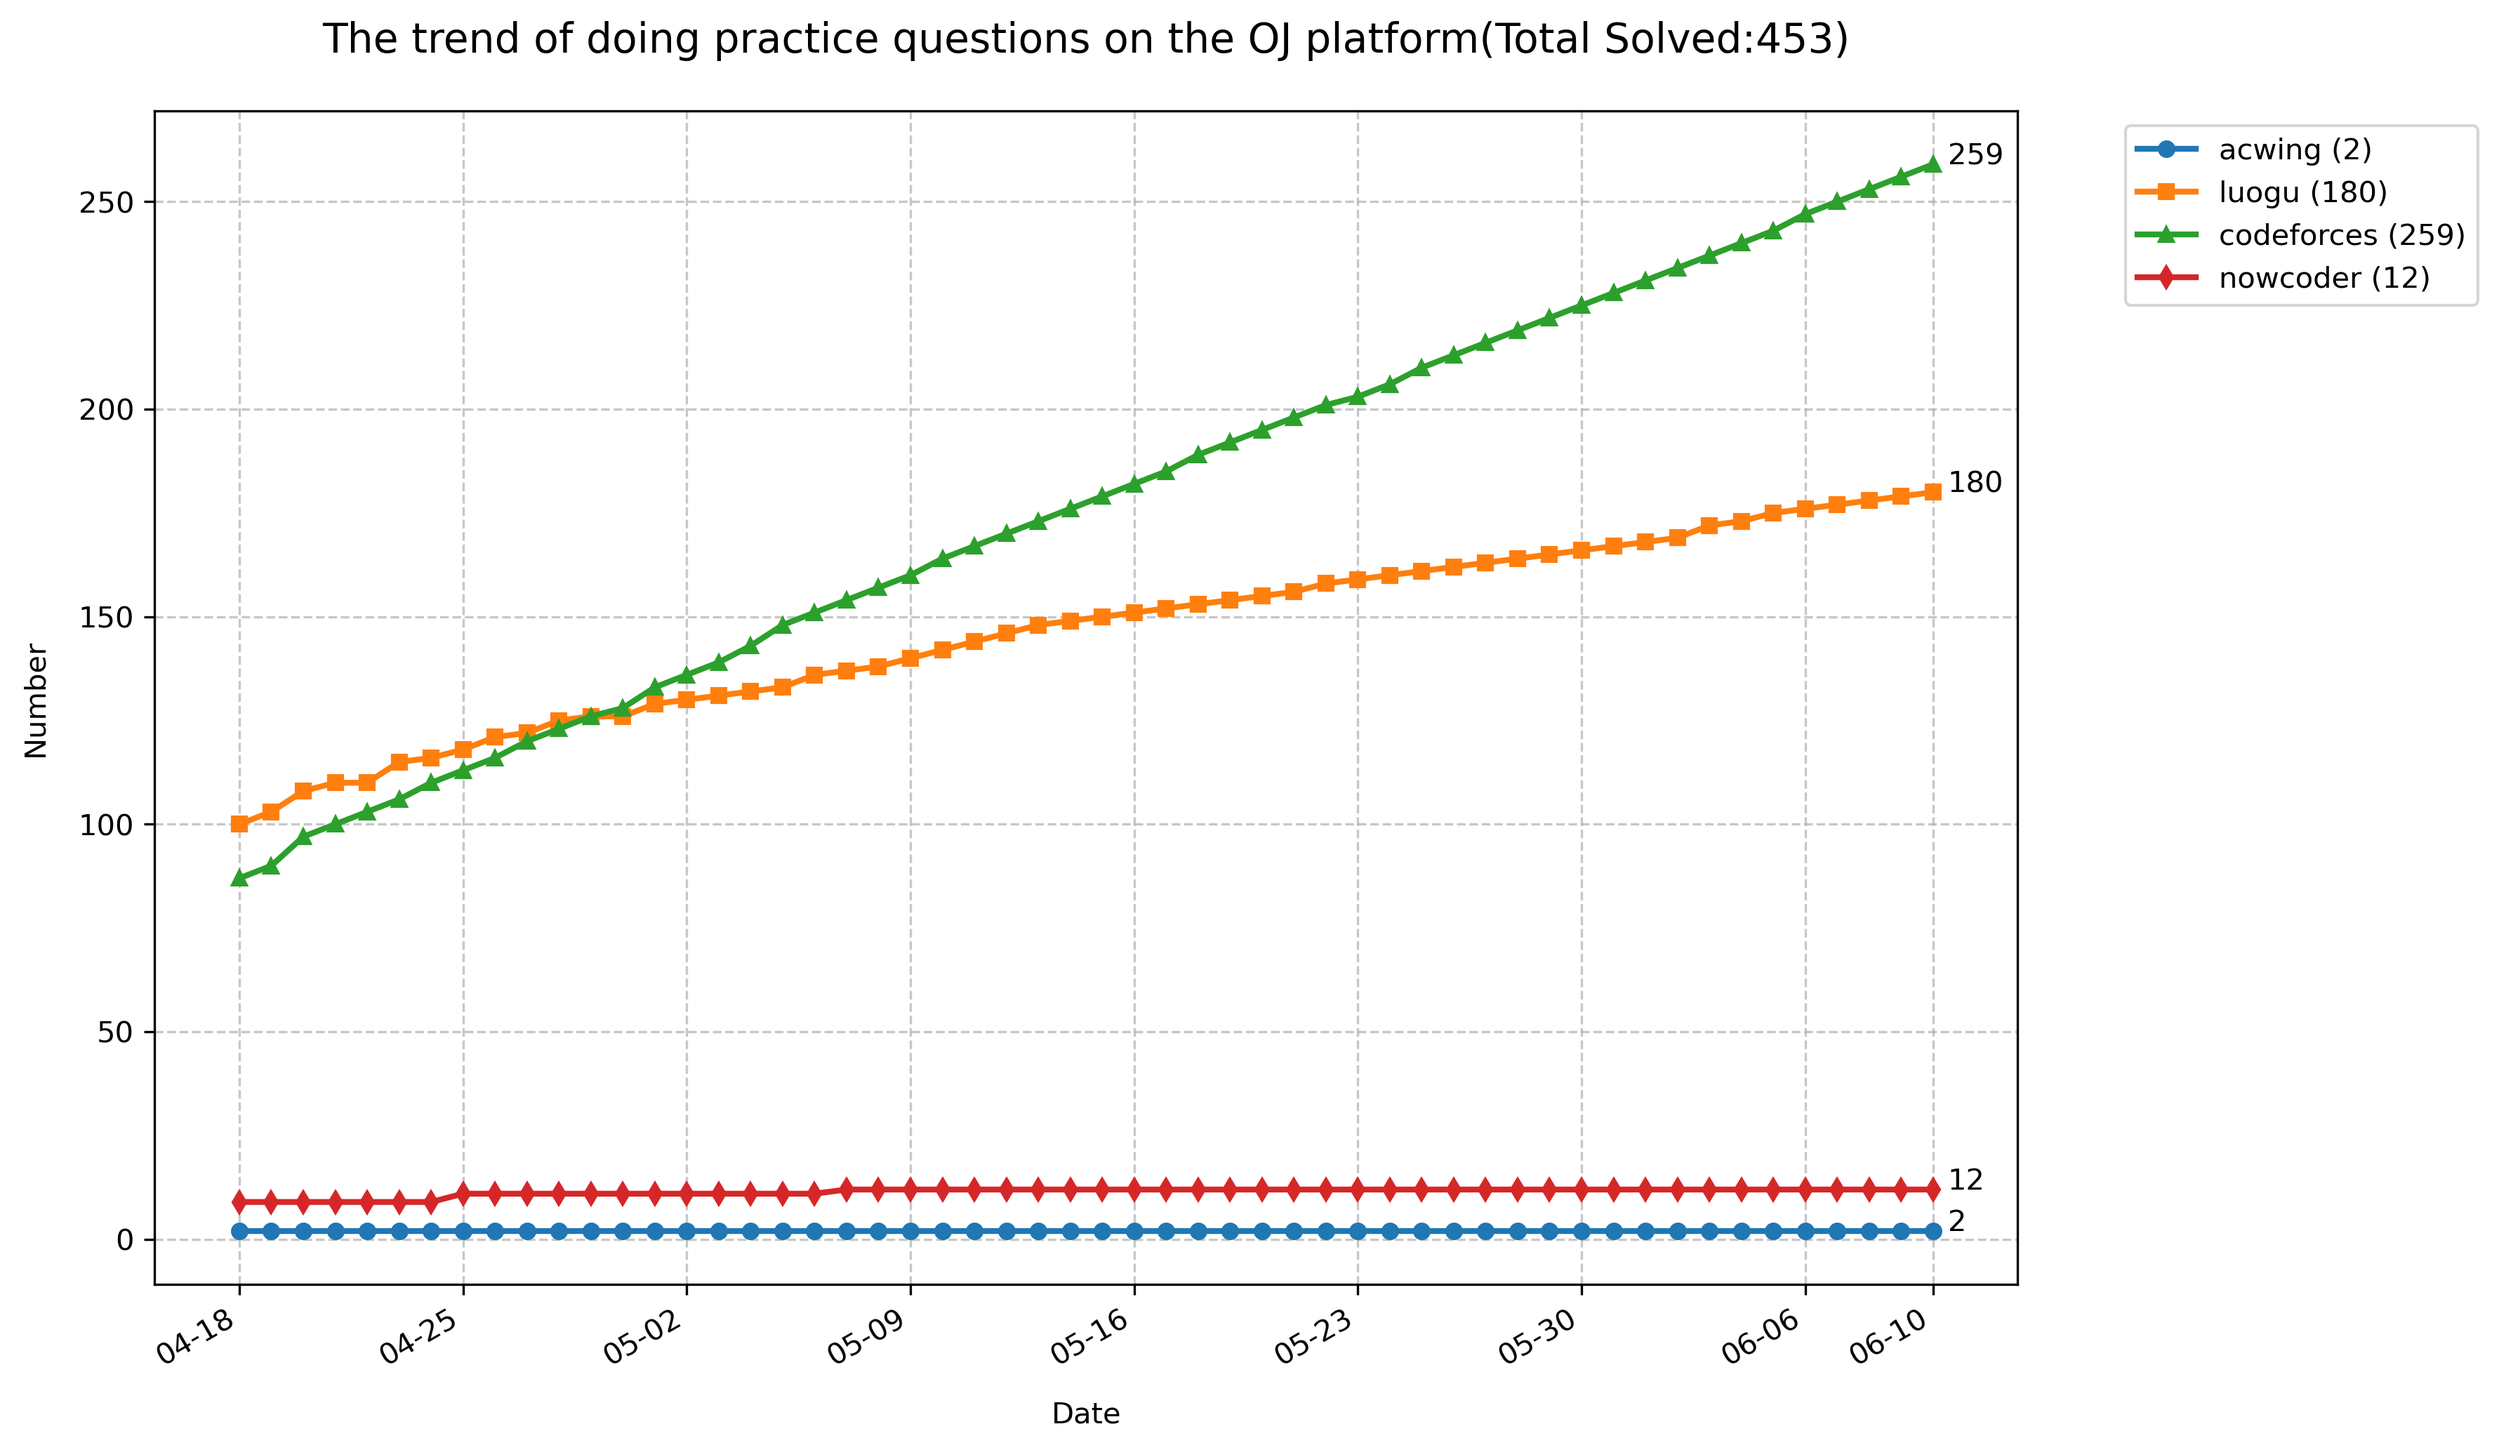
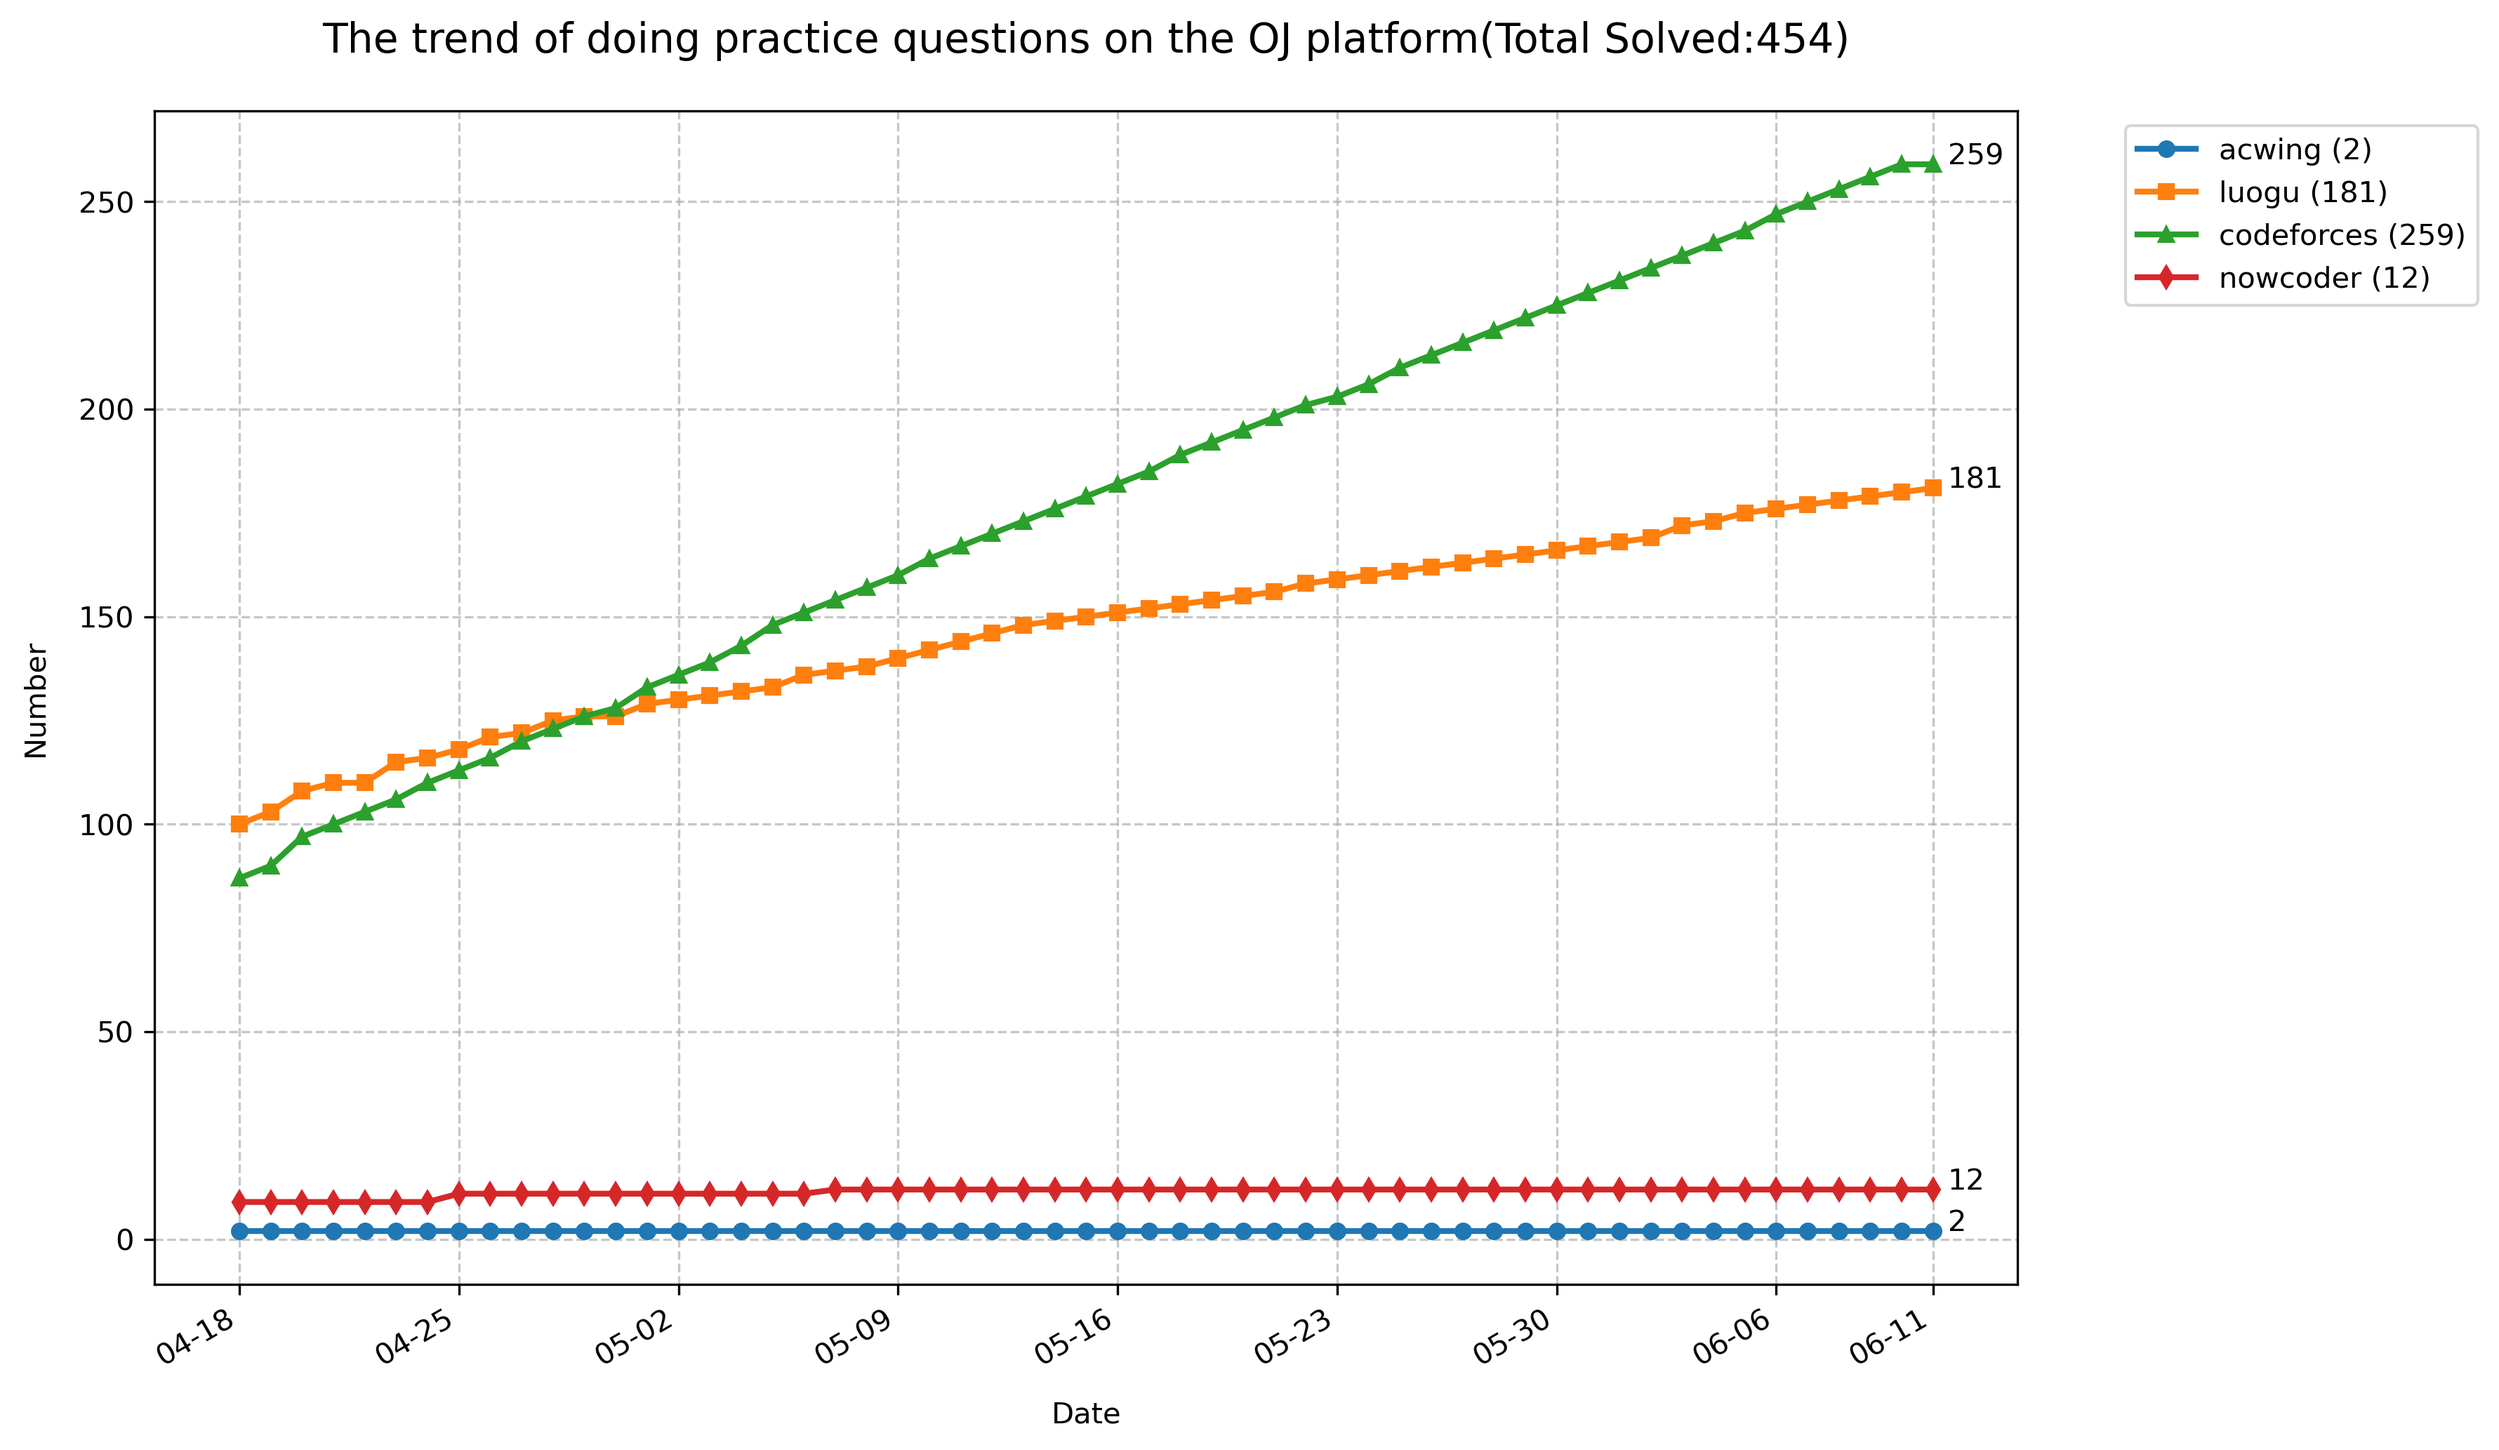
update

diff --git a/1850A/main.cpp b/1850A/main.cpp
@@ -1,0 +1,76 @@
+#include <bits/stdc++.h>
+using namespace std;
+
+#define ALL(x) (x).begin(), (x).end()
+#define MAXV(a, l, r) *std::max_element((a).begin() + (l), (a).begin() + (r))
+#define MINV(a, l, r) *std::min_element((a).begin() + (l), (a).begin() + (r))
+
+using ll = long long int;
+using ull = unsigned long long int;
+using PII = pair<int, int>;
+
+#define DEBUG
+
+#ifdef DEBUG
+template <typename Container>
+void PrintCon(const Container &cont)
+{
+    std::cout << "{ ";
+    if (!cont.empty())
+    {
+        auto it = cont.begin();
+        std::cout << "\033[33m" << *it++ << "\033[0m";
+        for (; it != cont.end(); ++it)
+            std::cout << " | " << "\033[33m" << *it << "\033[0m";
+    }
+    std::cout << " }" << std::endl;
+}
+
+template <typename... Args>
+void LOG(Args &&...values)
+{
+    ((std::cout << "\033[33m" << std::forward<Args>(values) << "\033[0m" << " "), ...);
+    std::cout << std::endl;
+}
+#else
+template <typename... Args>
+void LOG(Args &...args);
+
+template <typename Container>
+void PrintCon(const Container &cont);
+#endif
+
+void solve()
+{
+    int a[3];
+    for (int i = 0; i < 3; i++)
+    {
+        cin >> a[i];
+    }
+    for (int i = 0; i < 2; i++)
+    {
+        for (int j = i + 1; j < 3; j++)
+        {
+            if (a[i] + a[j] >= 10)
+            {
+                cout << "YES" << endl;
+                return;
+            }
+        }
+    }
+    cout << "NO" << endl;
+}
+
+int main()
+{
+    ios::sync_with_stdio(false);
+    cin.tie(nullptr);
+    int t;
+    cin >> t;
+    while (t--)
+    {
+        solve();
+    }
+
+    return 0;
+}

diff --git a/472A/main.cpp b/472A/main.cpp
@@ -1,0 +1,63 @@
+#include <bits/stdc++.h>
+using namespace std;
+
+#define ALL(x) (x).begin(), (x).end()
+#define MAXV(a, l, r) *std::max_element((a).begin() + (l), (a).begin() + (r))
+#define MINV(a, l, r) *std::min_element((a).begin() + (l), (a).begin() + (r))
+
+using ll = long long int;
+using ull = unsigned long long int;
+using PII = pair<int, int>;
+
+#define DEBUG
+#ifdef DEBUG
+template <typename Container>
+void PrintCon(const Container &cont)
+{
+    std::cout << "{ ";
+    if (!cont.empty())
+    {
+        auto it = cont.begin();
+        std::cout << "\033[33m" << *it++ << "\033[0m";
+        for (; it != cont.end(); ++it)
+            std::cout << " | " << "\033[33m" << *it << "\033[0m";
+    }
+    std::cout << " }" << std::endl;
+}
+
+template <typename... Args>
+void LOG(Args &&...values)
+{
+    ((std::cout << "\033[33m" << std::forward<Args>(values) << "\033[0m" << " "), ...);
+    std::cout << std::endl;
+}
+
+#else
+
+template <typename... Args>
+void LOG(Args &...args);
+template <typename Container>
+void PrintCon(const Container &cont);
+
+#endif
+bool isPrime(int x)
+{
+    for (int i = 2; i <= x / i; i++)
+        if (x % i == 0)
+            return true;
+    return false;
+}
+int main()
+{
+    ios::sync_with_stdio(false);
+    cin.tie(nullptr);
+    int n;
+    cin >> n;
+    for (int i = 1; i <= n; i++)
+        if (isPrime(i) && isPrime(n - i))
+        {                              
+            cout << i << " " << n - i; 
+            return 0;                 
+        }
+    return 0;
+}

diff --git a/luogu/P10250/main.cpp b/luogu/P10250/main.cpp
@@ -1,0 +1,60 @@
+#include <bits/stdc++.h>
+using namespace std;
+
+#define ALL(x) (x).begin(), (x).end()
+#define MAXV(a, l, r) *std::max_element((a).begin() + (l), (a).begin() + (r))
+#define MINV(a, l, r) *std::min_element((a).begin() + (l), (a).begin() + (r))
+
+using ll = long long int;
+using ull = unsigned long long int;
+using PII = pair<int, int>;
+
+#define DEBUG
+#ifdef DEBUG
+template <typename Container>
+void PrintCon(const Container &cont)
+{
+    std::cout << "{ ";
+    if (!cont.empty())
+    {
+        auto it = cont.begin();
+        std::cout << "\033[33m" << *it++ << "\033[0m";
+        for (; it != cont.end(); ++it)
+            std::cout << " | " << "\033[33m" << *it << "\033[0m";
+    }
+    std::cout << " }" << std::endl;
+}
+
+template <typename... Args>
+void LOG(Args &&...values)
+{
+    ((std::cout << "\033[33m" << std::forward<Args>(values) << "\033[0m" << " "), ...);
+    std::cout << std::endl;
+}
+
+#else
+
+template <typename... Args>
+void LOG(Args &...args);
+template <typename Container>
+void PrintCon(const Container &cont);
+
+#endif
+
+int main()
+{
+    ios::sync_with_stdio(false);
+    cin.tie(nullptr);
+    int n;
+    cin >> n;
+    ll dp[1001];
+    dp[0] = 1;
+    dp[1] = 2;
+    dp[2] = 4;
+    for (int i = 3; i < n; i++)
+    {
+        dp[i] = (dp[i - 1] + dp[i - 2] + dp[i - 3]);
+    }
+    cout << dp[n - 1] << endl;
+    return 0;
+}

diff --git a/432A/main.cpp b/432A/main.cpp
@@ -1,0 +1,60 @@
+#include <bits/stdc++.h>
+using namespace std;
+
+#define ALL(x) (x).begin(), (x).end()
+#define MAXV(a, l, r) *std::max_element((a).begin() + (l), (a).begin() + (r))
+#define MINV(a, l, r) *std::min_element((a).begin() + (l), (a).begin() + (r))
+
+using ll = long long int;
+using ull = unsigned long long int;
+using PII = pair<int, int>;
+
+#define DEBUG
+#ifdef DEBUG
+template <typename Container>
+void PrintCon(const Container &cont)
+{
+    std::cout << "{ ";
+    if (!cont.empty())
+    {
+        auto it = cont.begin();
+        std::cout << "\033[33m" << *it++ << "\033[0m";
+        for (; it != cont.end(); ++it)
+            std::cout << " | " << "\033[33m" << *it << "\033[0m";
+    }
+    std::cout << " }" << std::endl;
+}
+
+template <typename... Args>
+void LOG(Args &&...values)
+{
+    ((std::cout << "\033[33m" << std::forward<Args>(values) << "\033[0m" << " "), ...);
+    std::cout << std::endl;
+}
+
+#else
+
+template <typename... Args>
+void LOG(Args &...args);
+template <typename Container>
+void PrintCon(const Container &cont);
+
+#endif
+
+int main()
+{
+    ios::sync_with_stdio(false);
+    cin.tie(nullptr);
+    int n, k;
+    cin >> n >> k;
+    int cnt = 0;
+    for (int i = 0; i < n; i++)
+    {
+        int x;
+        cin >> x;
+        if (5 - x >= k)
+            cnt++;
+    }
+    cout << cnt / 3 << endl;
+    return 0;
+}
